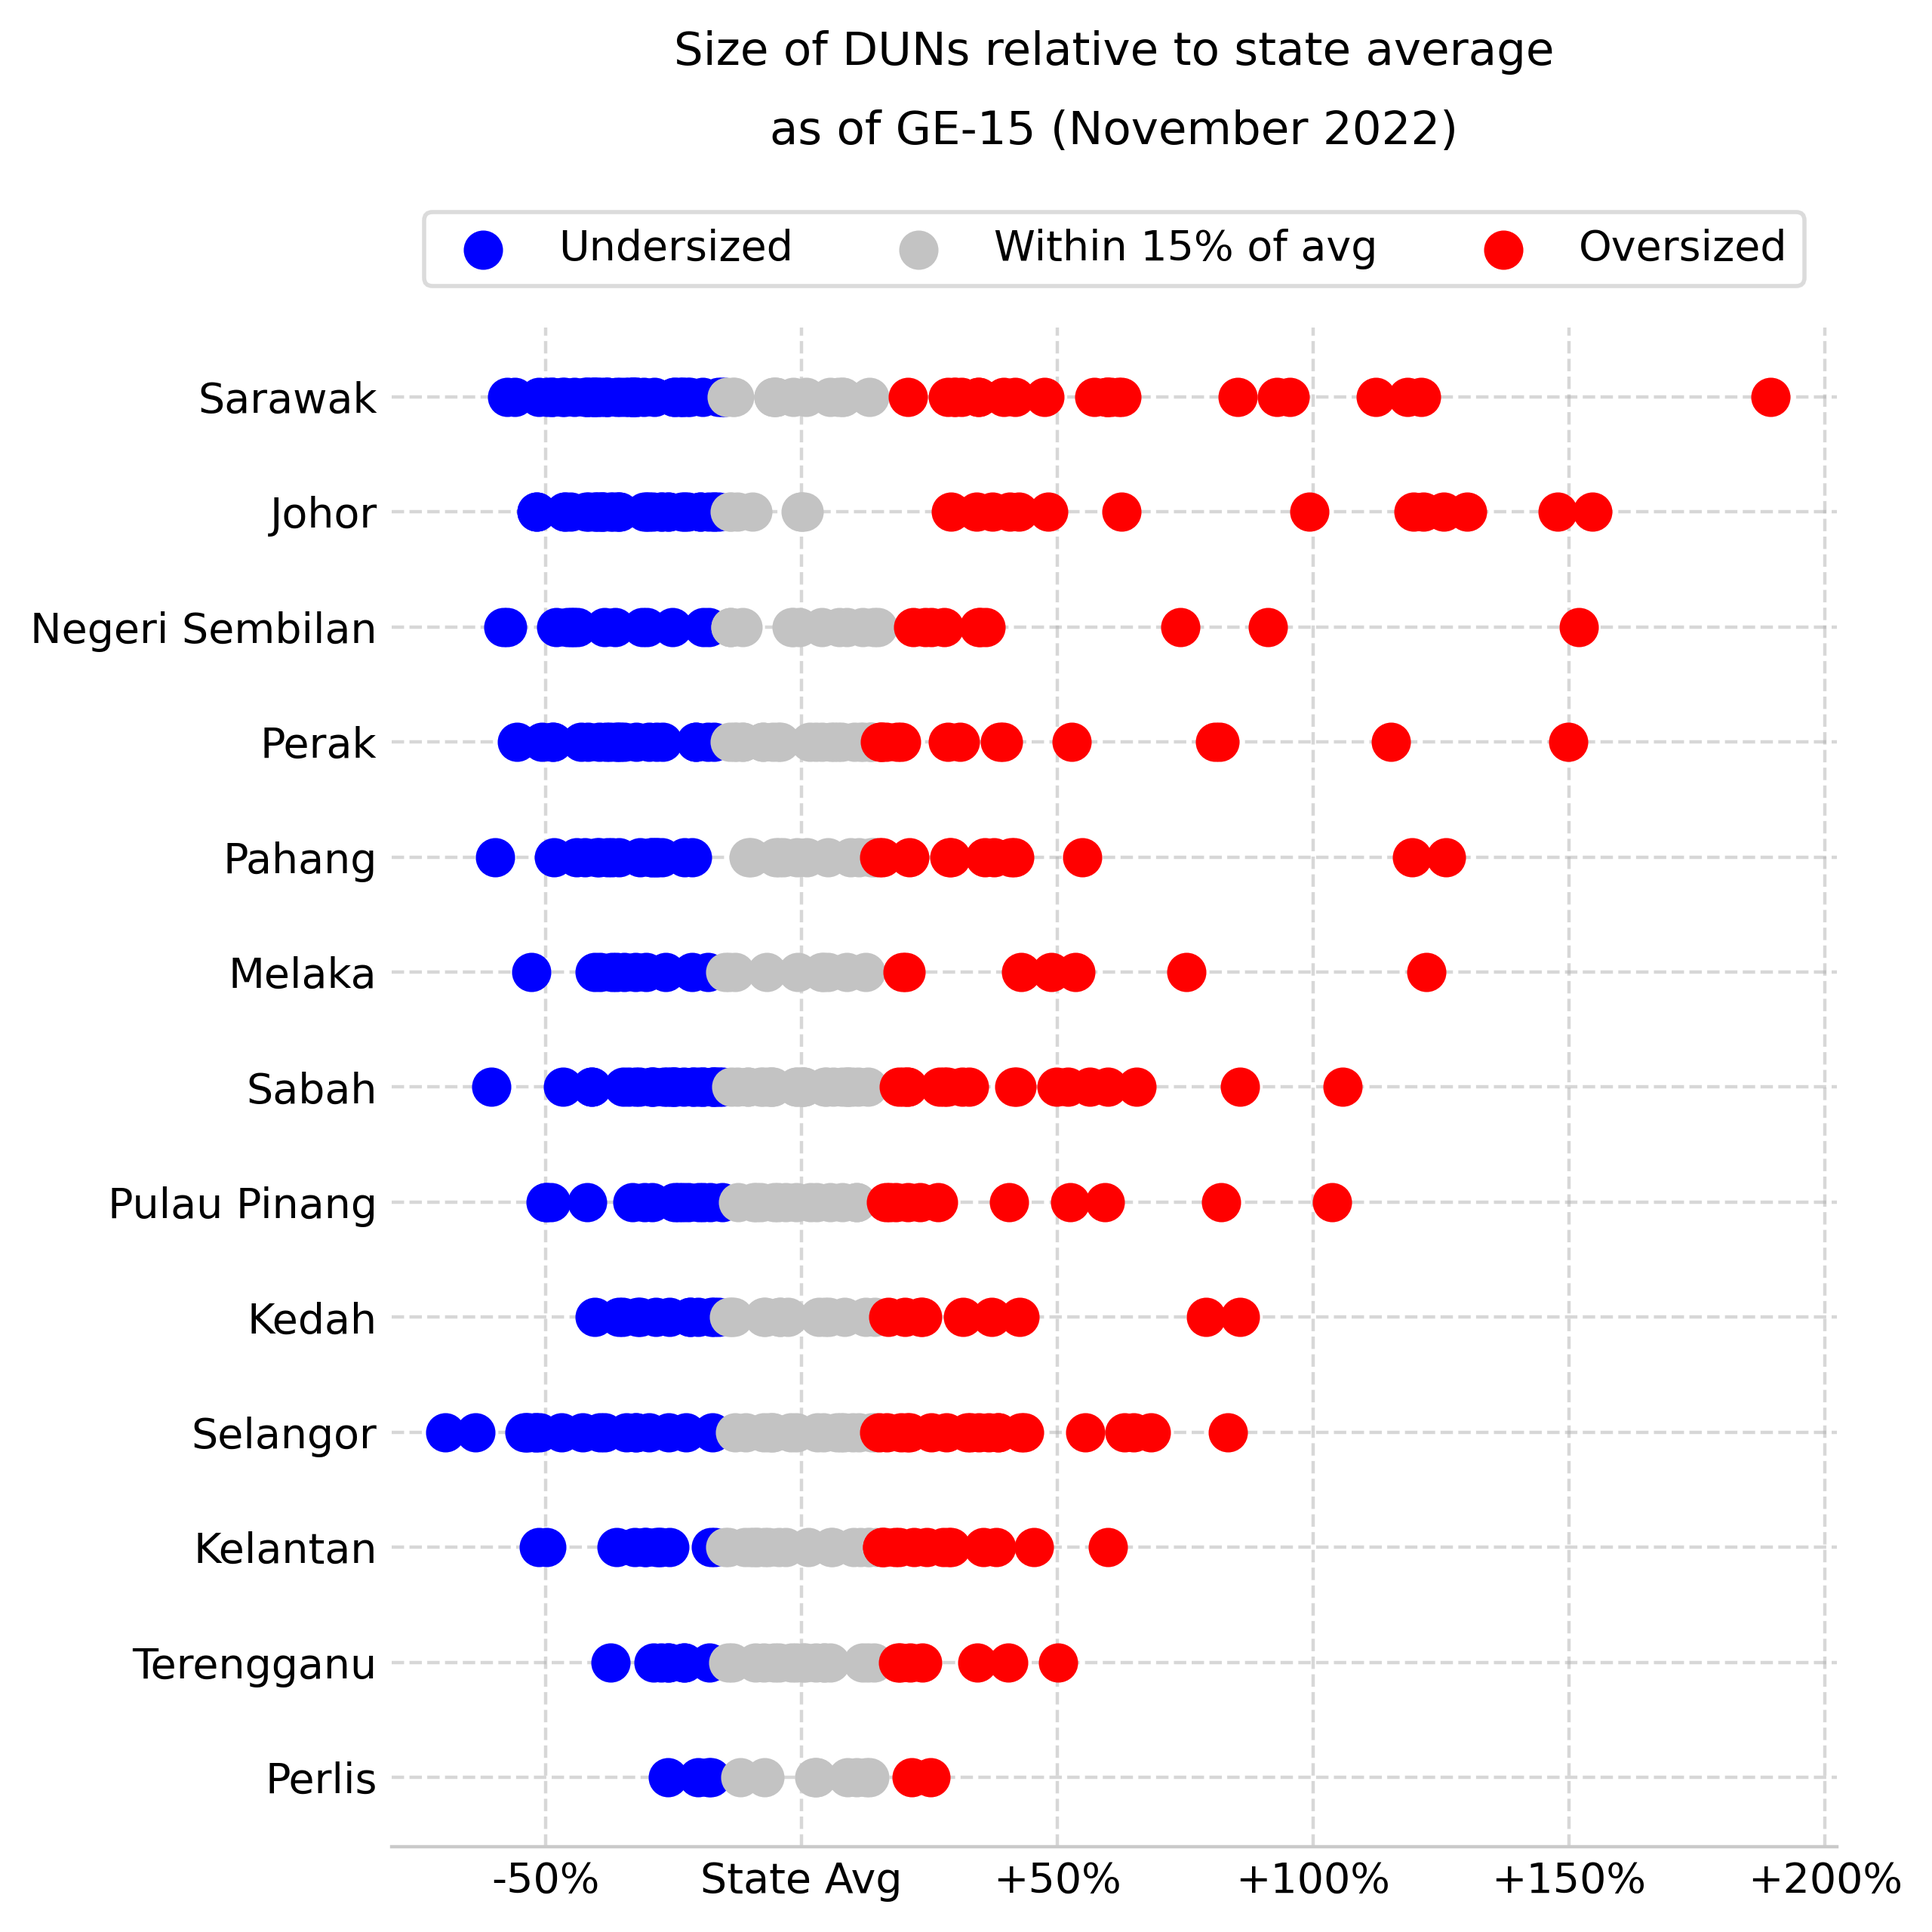
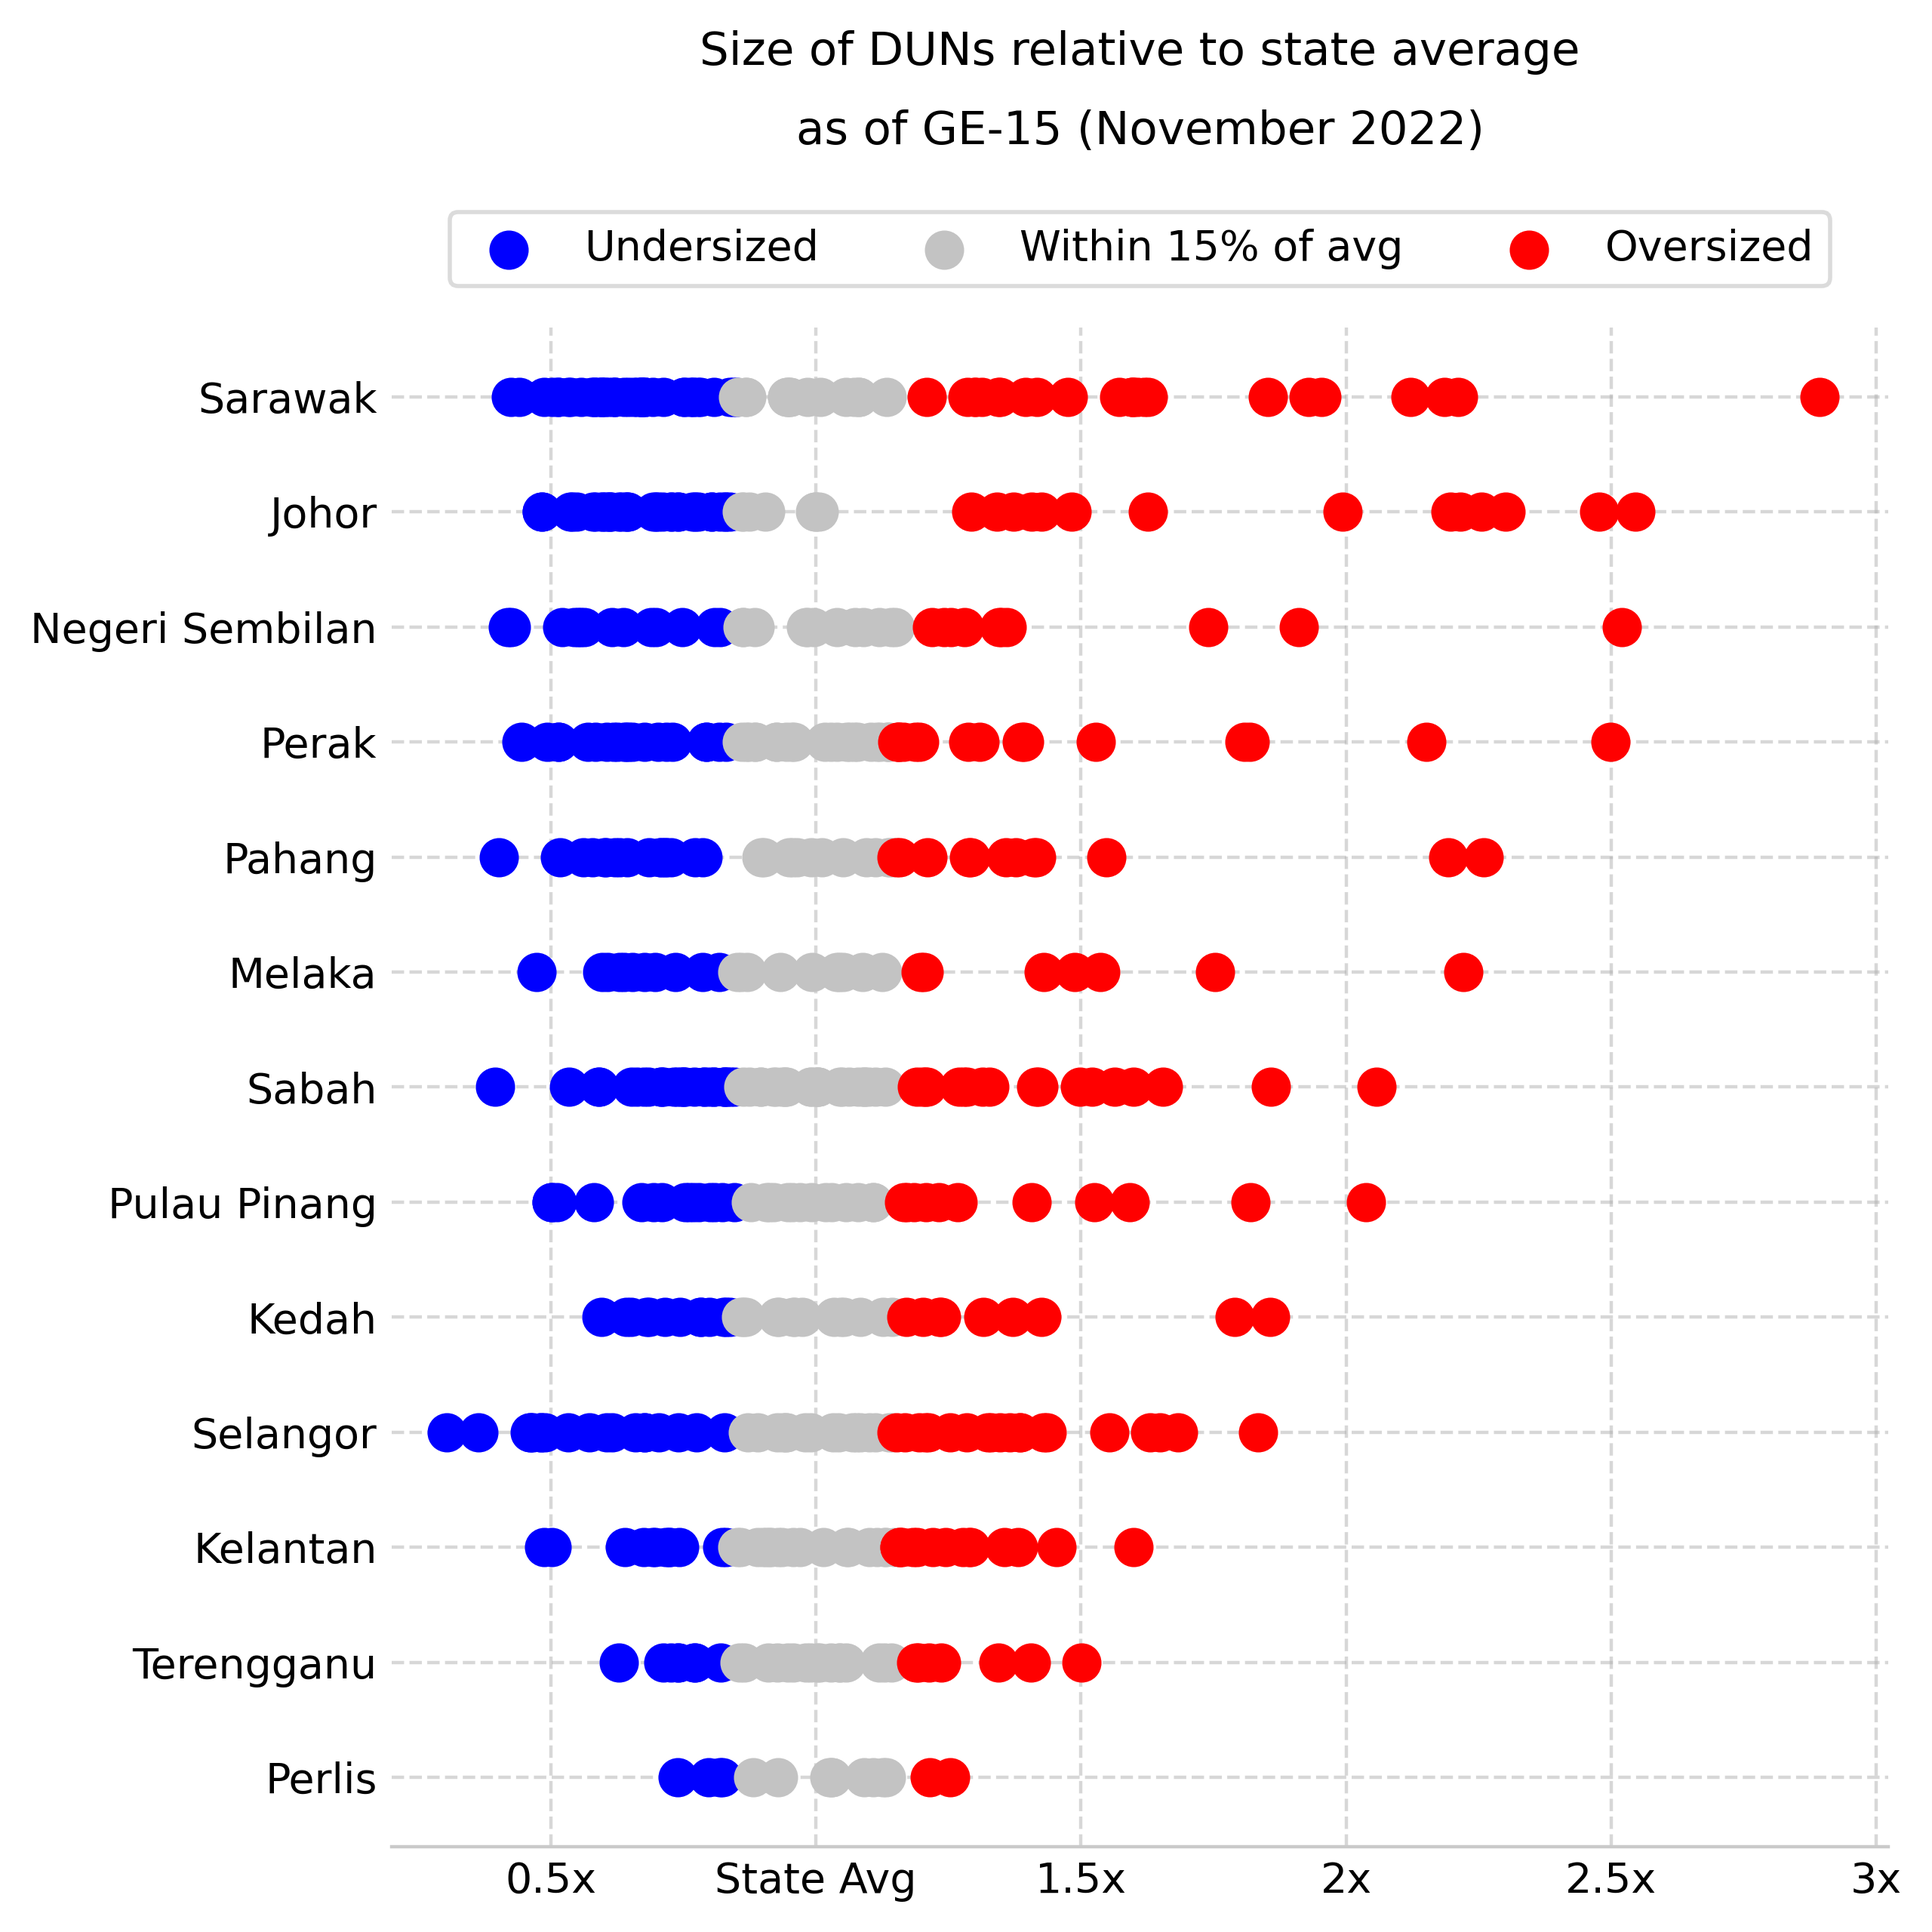
Add scatter chart for DUNs

diff --git a/2025-07-07_swk_dun/script.py b/2025-07-07_swk_dun/script.py
@@ -177,7 +177,7 @@ def scatter_dun_eq():
     ax.set_xlim(20)
     ax.get_xaxis().set_visible(True)
     plt.xticks(rotation=0)
-    ax.set_xticklabels(['','-50%','State Avg','+50%','+100%','+150%','+200%'])
+    ax.set_xticklabels(['','0.5x','State Avg','1.5x','2x','2.5x','3x'])
 
     # legend
     handles, labels = plt.gca().get_legend_handles_labels()
